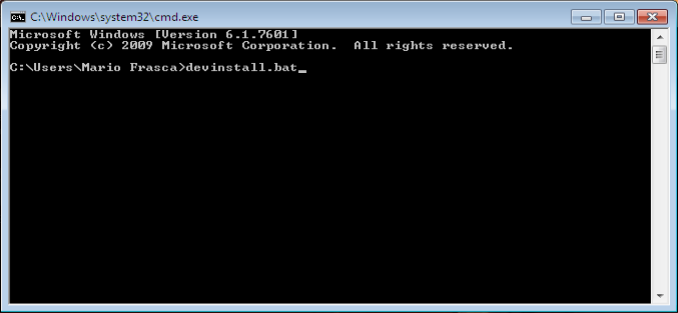
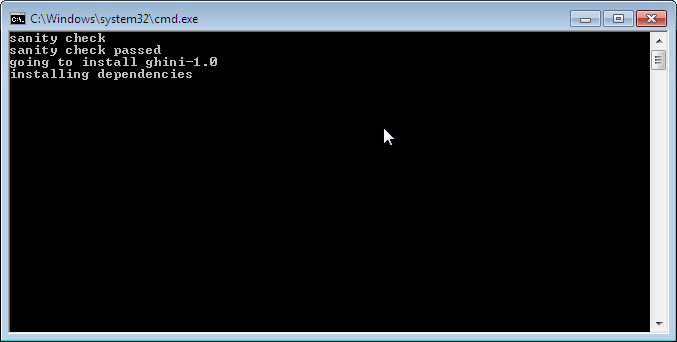
work in progress, #216

diff --git a/doc/installing.rst b/doc/installing.rst
@@ -266,10 +266,18 @@ The installation steps on Windows:
 
    .. image:: images/windows-save_as_type.png
 
-   .. |windows-cmd| image:: images/windows-cmd.png
+   Now **Open** the script to run it.  Please note: in the below image, we
+   have saved the file twice, once letting Windows convert it to a text
+   document, and again as a Windows Batch File.  Opening the batch file will
+   run the script.  Opening the text document will show you the code of the
+   batch file, which isn't going to lead us anywhere.
 
-   Now start |windows-cmd| to run the script.  Right before you hit the enter
-   key to run the script, your screen might look like something like this:
+   .. image:: images/windows-bat_vs_txt.png
+
+   If you installed everything as described here, the first thing you should
+   see when you start the installation script is a window like this, and
+   your computer will be busy during a couple of minutes, showing you what
+   it is doing.
 
    .. image:: images/screenshots/sys32cmd-1.png
 
@@ -278,13 +286,13 @@ The installation steps on Windows:
    ``ghini-1.0`` production line, create a virtual environment and install
    ghini into it.
 
-   you can also run ``devinstall.bat`` passing it as argument the numerical
+   You can also run ``devinstall.bat`` passing it as argument the numerical
    part of the production line you want to follow.
 
-   this is the last installation step that depends, heavily, on a working
+   This is the last installation step that depends, heavily, on a working
    internet connection.
 
-   the operation can take several minutes to complete, depending on the
+   The operation can take several minutes to complete, depending on the
    speed of your internet connection.
 
 #. the last installation step creates the Ghini group and shortcuts in the
